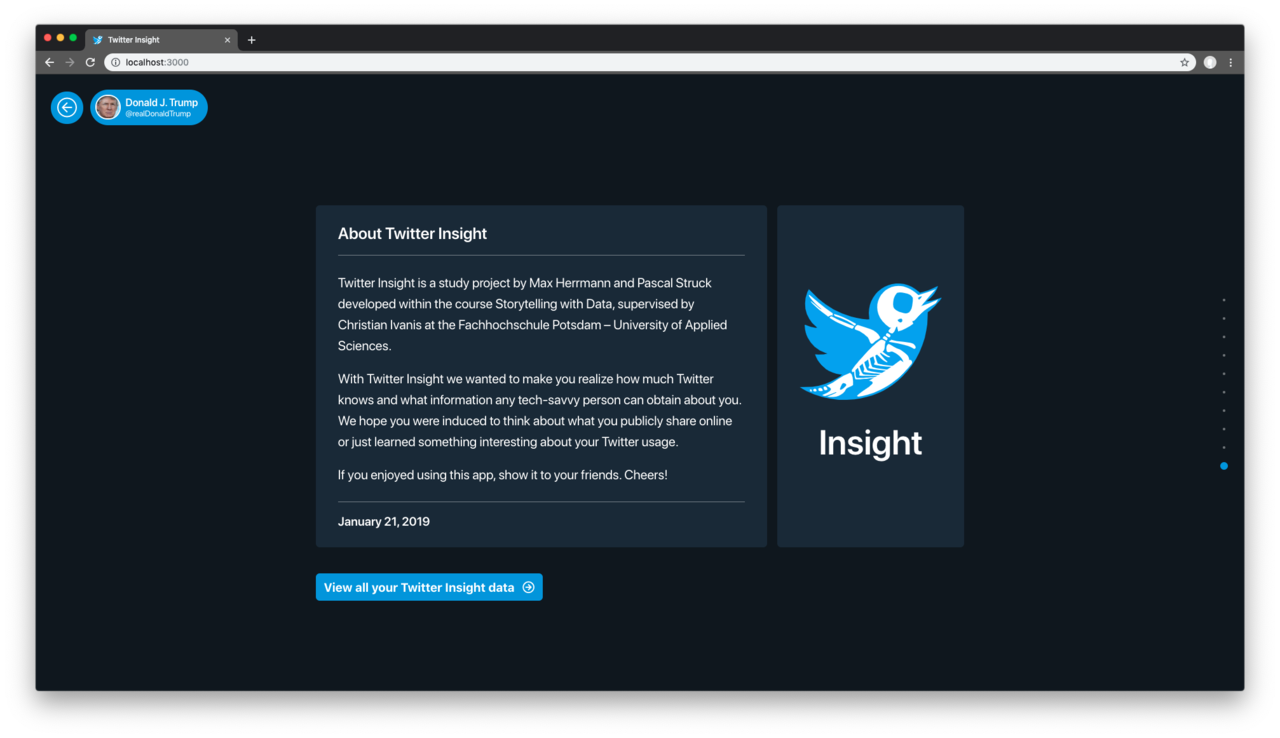
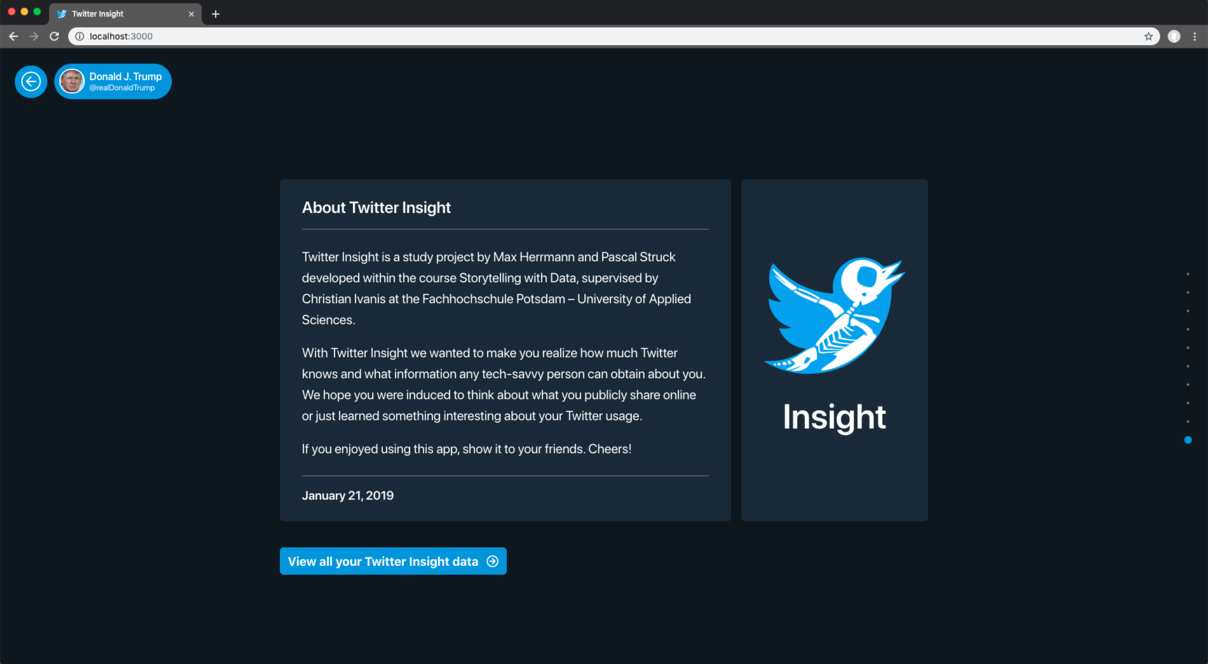
project2 v?

diff --git a/css/style.css b/css/style.css
@@ -689,6 +689,11 @@ li a.activelink{
 	margin-bottom: 3vh;
 }
 
+.p2browserimg{
+	width: 71vw;
+	margin-bottom: 3vh;
+}
+
 .p2center{
 	display: flex;
   	align-items: center;
